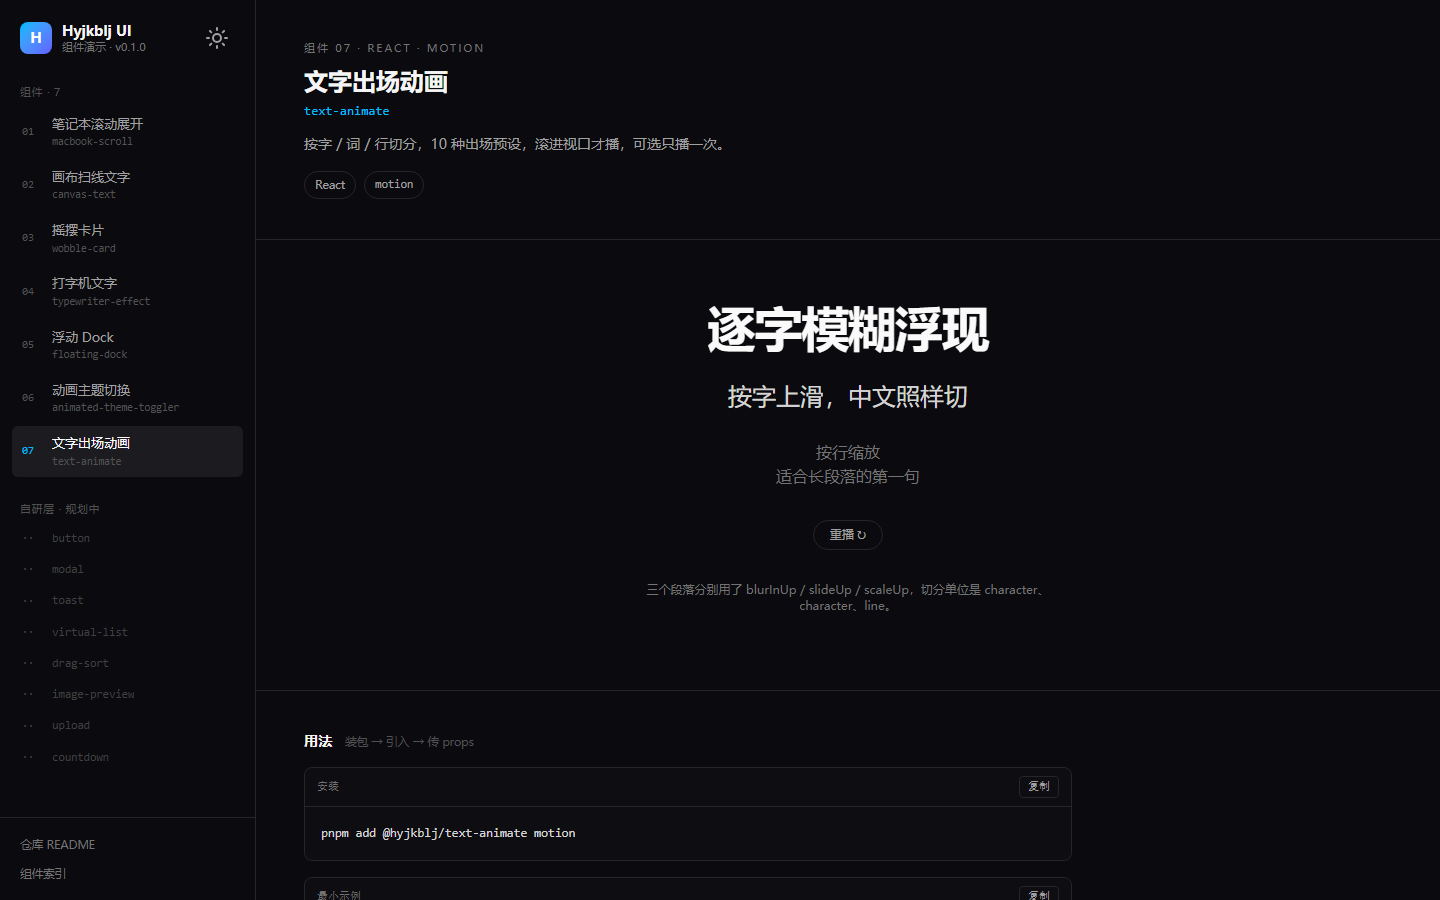
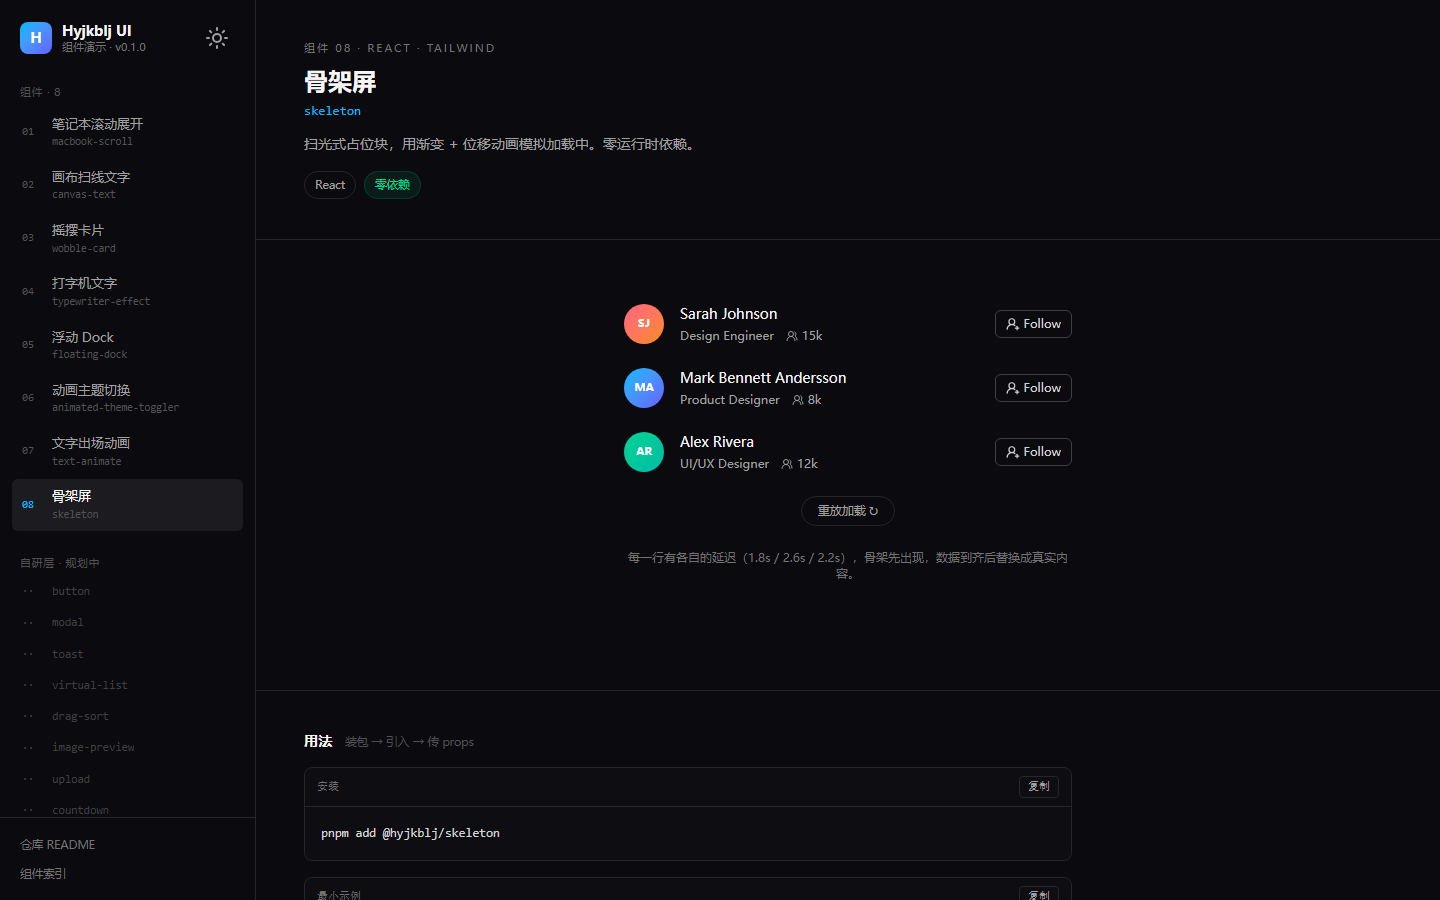
feat: 收录 Coss UI skeleton（扫光式骨架屏）

diff --git a/playground/src/demos/skeleton.tsx b/playground/src/demos/skeleton.tsx
@@ -1,0 +1,89 @@
+import { useEffect, useState } from "react";
+import { UserRoundPlusIcon, UsersRoundIcon } from "lucide-react";
+import { Skeleton } from "@registry/skeleton/skeleton";
+
+const USERS = [
+  { delay: 1800, initials: "SJ", name: "Sarah Johnson", role: "Design Engineer", followers: "15k", tone: "from-rose-400 to-orange-400" },
+  { delay: 2600, initials: "MA", name: "Mark Bennett Andersson", role: "Product Designer", followers: "8k", tone: "from-sky-400 to-indigo-500" },
+  { delay: 2200, initials: "AR", name: "Alex Rivera", role: "UI/UX Designer", followers: "12k", tone: "from-emerald-400 to-teal-500" },
+];
+
+function RowSkeleton() {
+  return (
+    <>
+      <Skeleton className="size-10 shrink-0 rounded-full" />
+      <div className="flex min-w-0 flex-1 flex-col gap-1.5">
+        <Skeleton className="h-4 w-40 max-w-full" />
+        <div className="flex items-center gap-2">
+          <Skeleton className="h-3 w-20" />
+          <Skeleton className="h-3 w-12" />
+        </div>
+      </div>
+      <Skeleton className="h-7 w-20 shrink-0 rounded-md" />
+    </>
+  );
+}
+
+function Row({ delay, user }: { delay: number; user: (typeof USERS)[number] }) {
+  const [loaded, setLoaded] = useState(false);
+
+  useEffect(() => {
+    const timer = setTimeout(() => setLoaded(true), delay);
+    return () => clearTimeout(timer);
+  }, [delay]);
+
+  if (!loaded) return <RowSkeleton />;
+
+  return (
+    <>
+      <div
+        className={`flex size-10 shrink-0 items-center justify-center rounded-full bg-gradient-to-br ${user.tone} text-[11px] font-semibold text-white`}
+      >
+        {user.initials}
+      </div>
+      <div className="flex min-w-0 flex-1 flex-col gap-1">
+        <h4 className="truncate text-sm font-medium text-neutral-900 dark:text-neutral-100">
+          {user.name}
+        </h4>
+        <div className="flex items-center gap-3 text-xs text-neutral-500 dark:text-neutral-400">
+          <span className="truncate">{user.role}</span>
+          <span className="flex min-w-0 items-center gap-1">
+            <UsersRoundIcon className="size-3 shrink-0" />
+            <span className="truncate">{user.followers}</span>
+          </span>
+        </div>
+      </div>
+      <button className="flex h-7 shrink-0 items-center gap-1 rounded-md border border-neutral-200 px-2.5 text-xs text-neutral-700 transition-colors hover:bg-neutral-100 dark:border-neutral-700 dark:text-neutral-300 dark:hover:bg-white/[0.06]">
+        <UserRoundPlusIcon className="size-3.5" />
+        Follow
+      </button>
+    </>
+  );
+}
+
+export function SkeletonDemo() {
+  const [round, setRound] = useState(0);
+
+  return (
+    <div className="flex flex-col items-center gap-6 px-6 py-16">
+      <div key={round} className="flex w-full max-w-md flex-col gap-6">
+        {USERS.map((user) => (
+          <div className="flex items-center gap-4" key={user.initials}>
+            <Row delay={user.delay} user={user} />
+          </div>
+        ))}
+      </div>
+
+      <button
+        onClick={() => setRound((r) => r + 1)}
+        className="rounded-full border border-neutral-200 px-4 py-1.5 text-xs text-neutral-600 transition-colors hover:border-neutral-400 hover:text-neutral-900 dark:border-neutral-800 dark:text-neutral-400 dark:hover:border-neutral-600 dark:hover:text-neutral-100"
+      >
+        重放加载 ↻
+      </button>
+
+      <p className="max-w-md text-center text-xs text-neutral-500">
+        每一行有各自的延迟（1.8s / 2.6s / 2.2s），骨架先出现，数据到齐后替换成真实内容。
+      </p>
+    </div>
+  );
+}

diff --git a/playground/src/demos/index.tsx b/playground/src/demos/index.tsx
@@ -6,6 +6,7 @@ import { TypewriterEffectDemo } from "./typewriter-effect";
 import { FloatingDockDemo } from "./floating-dock";
 import { AnimatedThemeTogglerDemo } from "./animated-theme-toggler";
 import { TextAnimateDemo } from "./text-animate";
+import { SkeletonDemo } from "./skeleton";
 
 import macbookScrollSource from "@registry/macbook-scroll/macbook-scroll.tsx?raw";
 import canvasTextSource from "@registry/canvas-text/canvas-text.tsx?raw";
@@ -14,6 +15,7 @@ import typewriterEffectSource from "@registry/typewriter-effect/typewriter-effec
 import floatingDockSource from "@registry/floating-dock/floating-dock.tsx?raw";
 import animatedThemeTogglerSource from "@registry/animated-theme-toggler/animated-theme-toggler.tsx?raw";
 import textAnimateSource from "@registry/text-animate/text-animate.tsx?raw";
+import skeletonSource from "@registry/skeleton/skeleton.tsx?raw";
 
 export type DemoMeta = {
   /** 路由 key，同时也是 registry 目录名 */
@@ -202,6 +204,31 @@ export function Hero() {
 }`,
     source: textAnimateSource,
     Render: TextAnimateDemo,
+  },
+  {
+    id: "skeleton",
+    index: "08",
+    name: "skeleton",
+    title: "骨架屏",
+    summary: "扫光式占位块，用渐变 + 位移动画模拟加载中。零运行时依赖。",
+    stack: "React · Tailwind",
+    deps: [],
+    install: `pnpm add @hyjkblj/skeleton`,
+    usage: `import { Skeleton } from "@hyjkblj/skeleton";
+
+export function CardSkeleton() {
+  return (
+    <div className="flex items-center gap-4">
+      <Skeleton className="size-10 rounded-full" />
+      <div className="flex flex-1 flex-col gap-2">
+        <Skeleton className="h-4 w-40" />
+        <Skeleton className="h-3 w-24" />
+      </div>
+    </div>
+  );
+}`,
+    source: skeletonSource,
+    Render: SkeletonDemo,
   },
 ];
 

diff --git a/registry/skeleton/skeleton.tsx b/registry/skeleton/skeleton.tsx
@@ -1,0 +1,27 @@
+/**
+ * 来源：Coss UI — skeleton
+ * https://coss.com/ui/r/skeleton.json
+ * 收录方式：registry 导入
+ * 依赖：无（需要 Tailwind v4 主题变量 --color-muted 与 --animate-skeleton）
+ *
+ * HY-MODIFIED：导入路径由 @/registry/default/lib/utils 改为 @/lib/utils
+ * （Coss 内部 registry 路径在外部项目里不存在，等价于 shadcn 安装时的路径重写）
+ */
+import type React from "react";
+import { cn } from "@/lib/utils";
+
+export function Skeleton({
+  className,
+  ...props
+}: React.ComponentProps<"div">): React.ReactElement {
+  return (
+    <div
+      className={cn(
+        "animate-skeleton rounded-sm [--skeleton-highlight:--alpha(var(--color-white)/64%)] [background:linear-gradient(120deg,transparent_40%,var(--skeleton-highlight),transparent_60%)_var(--color-muted)_0_0/200%_100%_fixed] dark:[--skeleton-highlight:--alpha(var(--color-white)/4%)]",
+        className,
+      )}
+      data-slot="skeleton"
+      {...props}
+    />
+  );
+}

diff --git a/playground/src/styles.css b/playground/src/styles.css
@@ -3,6 +3,22 @@
 /* 收录层源码在 playground 之外，Tailwind v4 需要显式声明扫描范围 */
 @source "../../registry";
 
+/* Coss skeleton 需要的主题变量与动画 */
+@theme {
+  --color-muted: #f4f4f5;
+  --animate-skeleton: skeleton 2s -1s infinite linear;
+}
+
+@keyframes skeleton {
+  to {
+    background-position: -200% 0;
+  }
+}
+
+html.dark {
+  --color-muted: #27272a;
+}
+
 /* 用 .dark 类控制暗色，避免依赖系统主题 */
 @custom-variant dark (&:where(.dark, .dark *));
 

diff --git a/tsup.config.ts b/tsup.config.ts
@@ -37,4 +37,5 @@ export default defineConfig([
   pkg("floating-dock", ["motion", "motion/react", "@tabler/icons-react"]),
   pkg("animated-theme-toggler", ["lucide-react", "react-dom"]),
   pkg("text-animate", ["motion", "motion/react"]),
+  pkg("skeleton", []),
 ]);

diff --git a/registry/skeleton/README.md b/registry/skeleton/README.md
@@ -1,0 +1,127 @@
+# Skeleton 骨架屏
+
+> [← 返回组件索引](../../docs/COMPONENTS.md)
+> 状态：experimental · 框架：仅 React · 来源：Coss UI · 依赖：无（需 Tailwind v4 主题变量）
+
+加载中的占位块：一块 `--color-muted` 底色上，一条高光从左往右扫。比常见的 `animate-pulse` 更"有方向感"，视觉上更像真的在取数据。
+
+## 效果
+
+![Skeleton 三行列表，逐行从骨架切换成真实内容](../../docs/images/skeleton.png)
+
+可交互 demo：`pnpm dev` 后打开 `#/skeleton`；截图模式 `?only=skeleton`。
+
+> 静图只能看到骨架的尺寸和排布——扫光是 CSS 动画，抓帧抓不到，得打开页面看。
+
+Demo 里三行有各自的延迟（1.8s / 2.6s / 2.2s），骨架先出现，数据到齐后替换成真实内容——底部「重放加载」可重来一次。
+
+## 安装
+
+组件本身零依赖，但它**依赖三个 CSS 片段**，装的时候要一起带上：
+
+```css
+@import "tailwindcss";
+
+@theme {
+  --color-muted: #f4f4f5;                              /* 骨架底色 */
+  --animate-skeleton: skeleton 2s -1s infinite linear; /* 扫光动画 */
+}
+
+@keyframes skeleton {
+  to {
+    background-position: -200% 0;
+  }
+}
+
+/* 暗色下换个底色 */
+html.dark {
+  --color-muted: #27272a;
+}
+```
+
+用 `npx shadcn@latest add @coss/skeleton` 安装时，这些会自动写进你的 globals.css（registry 的 `cssVars` / `css` 字段）；手动拷源码的话要自己贴。
+
+```bash
+pnpm add @hyjkblj/skeleton
+```
+
+## 基础用法
+
+```tsx
+import { Skeleton } from "@hyjkblj/skeleton";
+
+export function CardSkeleton() {
+  return (
+    <div className="flex items-center gap-4">
+      <Skeleton className="size-10 rounded-full" />
+      <div className="flex flex-1 flex-col gap-2">
+        <Skeleton className="h-4 w-40" />
+        <Skeleton className="h-3 w-24" />
+      </div>
+    </div>
+  );
+}
+```
+
+配合加载状态：
+
+```tsx
+function UserRow({ user }: { user?: User }) {
+  if (!user) {
+    return (
+      <div className="flex items-center gap-4">
+        <Skeleton className="size-10 rounded-full" />
+        <Skeleton className="h-4 w-40" />
+      </div>
+    );
+  }
+  return <RealRow user={user} />;
+}
+```
+
+## API
+
+只有一个组件，没有别的 props：
+
+| 属性 | 类型 | 默认值 | 说明 |
+| --- | --- | --- | --- |
+| `className` | `string` | — | **必传尺寸**：宽度、高度、圆角都靠它 |
+| `...props` | `React.ComponentProps<"div">` | — | 透传到内部 `<div>` |
+
+渲染结果：
+
+```html
+<div data-slot="skeleton" class="animate-skeleton rounded-sm [background:...]" />
+```
+
+## 样式与主题
+
+| 想改的 | 怎么改 |
+| --- | --- |
+| 底色 | 覆盖 `--color-muted`（或在 `className` 里写 `bg-*`） |
+| 扫光颜色 | 组件用 `--skeleton-highlight`，暗色下是 `white/4%`、亮色下 `white/64%`；在 `className` 里覆盖这个变量 |
+| 速度 | `--animate-skeleton` 里的 `2s` |
+| 圆角 | 默认 `rounded-sm`，传 `className="rounded-full"` 覆盖 |
+| 高光方向 | 背景渐变角度写在类里（`120deg`），要改得动源码 |
+
+## 注意事项
+
+- **不传尺寸就什么都不显示**。它是 `<div>`，没有默认宽高，`<Skeleton />` 单独用是 0×0。
+- **必须有 `--color-muted` 和 `--animate-skeleton`**。缺前者整块是透明的，缺后者就是一块死板的灰块——两种失败都很难一眼看出原因。
+- **`-1s` 的负延迟是有意的**：让动画一开始就处在中间相位，不会"加载出来先静止一秒再开始扫"。
+- **无障碍基本没做**。它是纯装饰元素，但组件没有 `aria-hidden`。建议外层加 `role="status" aria-busy="true"`，再放一个 `sr-only` 的「加载中」。
+- **不响应 `prefers-reduced-motion`**。对动效敏感的用户会一直看到扫光，介意的话自己在 CSS 里加一条媒体查询把它关掉。
+- **暗色切换靠 `html.dark`**，与本仓库其余组件一致；如果你的暗色策略是 `media`，要把那条 `html.dark` 改成 `@media (prefers-color-scheme: dark)`。
+- 用 `data-slot="skeleton"` 可以做统一选择器，比如 `[data-slot="skeleton"] { border-radius: 999px }`。
+
+## 变更记录
+
+| 版本 | 变更 |
+| --- | --- |
+| 0.1.0 | 从 Coss UI 收录；导入路径改为 `@/lib/utils`；补 demo 与文档 |
+
+## 出处
+
+- 原组件：Coss UI · [skeleton](https://coss.com/ui/r/skeleton.json)
+- 收录方式：registry JSON 原样落地
+- 改动：**HY-MODIFIED** —— 导入路径 `@/registry/default/lib/utils` → `@/lib/utils`

diff --git a/docs/COMPONENTS.md b/docs/COMPONENTS.md
@@ -16,6 +16,7 @@
 | 05 | FloatingDock 浮动 Dock | `@hyjkblj/floating-dock` | React | motion, @tabler/icons-react | experimental | [文档](../registry/floating-dock/README.md) |
 | 06 | AnimatedThemeToggler 动画主题切换 | `@hyjkblj/animated-theme-toggler` | React | lucide-react | experimental | [文档](../registry/animated-theme-toggler/README.md) |
 | 07 | TextAnimate 文字出场动画 | `@hyjkblj/text-animate` | React | motion | experimental | [文档](../registry/text-animate/README.md) |
+| 08 | Skeleton 骨架屏 | `@hyjkblj/skeleton` | React | 无 | experimental | [文档](../registry/skeleton/README.md) |
 
 **状态说明**：`experimental` → 能用，API 可能变；`stable` → 推荐使用；`deprecated` → 准备移除。
 
@@ -151,6 +152,25 @@ macOS 那种 Dock：鼠标横向扫过时，离光标最近的图标被弹簧放
 | 源码 | [text-animate.tsx](../registry/text-animate/text-animate.tsx) |
 | 效果图 | [docs/images/text-animate.png](images/text-animate.png) |
 | 本地演示 | `pnpm dev` 后打开 `#/text-animate`；截图用 `?only=text-animate` |
+
+---
+
+## 08 · Skeleton 骨架屏
+
+[![Skeleton 效果图](images/skeleton.png)](../registry/skeleton/README.md)
+
+加载中的占位块：`--color-muted` 底色上一条高光从左往右扫。比 `animate-pulse` 更有方向感。
+
+| 项 | 值 |
+| --- | --- |
+| 包名 | `@hyjkblj/skeleton` |
+| 框架 / 状态 | React · experimental |
+| 依赖 | 无（需 Tailwind v4 的 `--color-muted` 与 `--animate-skeleton`） |
+| 安装 | `pnpm add @hyjkblj/skeleton` |
+| 文档 | [registry/skeleton/README.md](../registry/skeleton/README.md) |
+| 源码 | [skeleton.tsx](../registry/skeleton/skeleton.tsx) |
+| 效果图 | [docs/images/skeleton.png](images/skeleton.png) |
+| 本地演示 | `pnpm dev` 后打开 `#/skeleton`；截图用 `?only=skeleton` |
 
 ---
 

diff --git a/README.md b/README.md
@@ -46,6 +46,7 @@
 | [FloatingDock](registry/floating-dock/README.md) | `@hyjkblj/floating-dock` | motion, @tabler/icons-react | macOS 风格 Dock |
 | [AnimatedThemeToggler](registry/animated-theme-toggler/README.md) | `@hyjkblj/animated-theme-toggler` | lucide-react | 形变动画的主题切换 |
 | [TextAnimate](registry/text-animate/README.md) | `@hyjkblj/text-animate` | motion | 逐字 / 逐词 / 逐行的文字动画 |
+| [Skeleton](registry/skeleton/README.md) | `@hyjkblj/skeleton` | 无 | 扫光式骨架屏 |
 
 完整索引（效果图 + 源码链接 + 本地演示方式）：**[docs/COMPONENTS.md](docs/COMPONENTS.md)**
 
